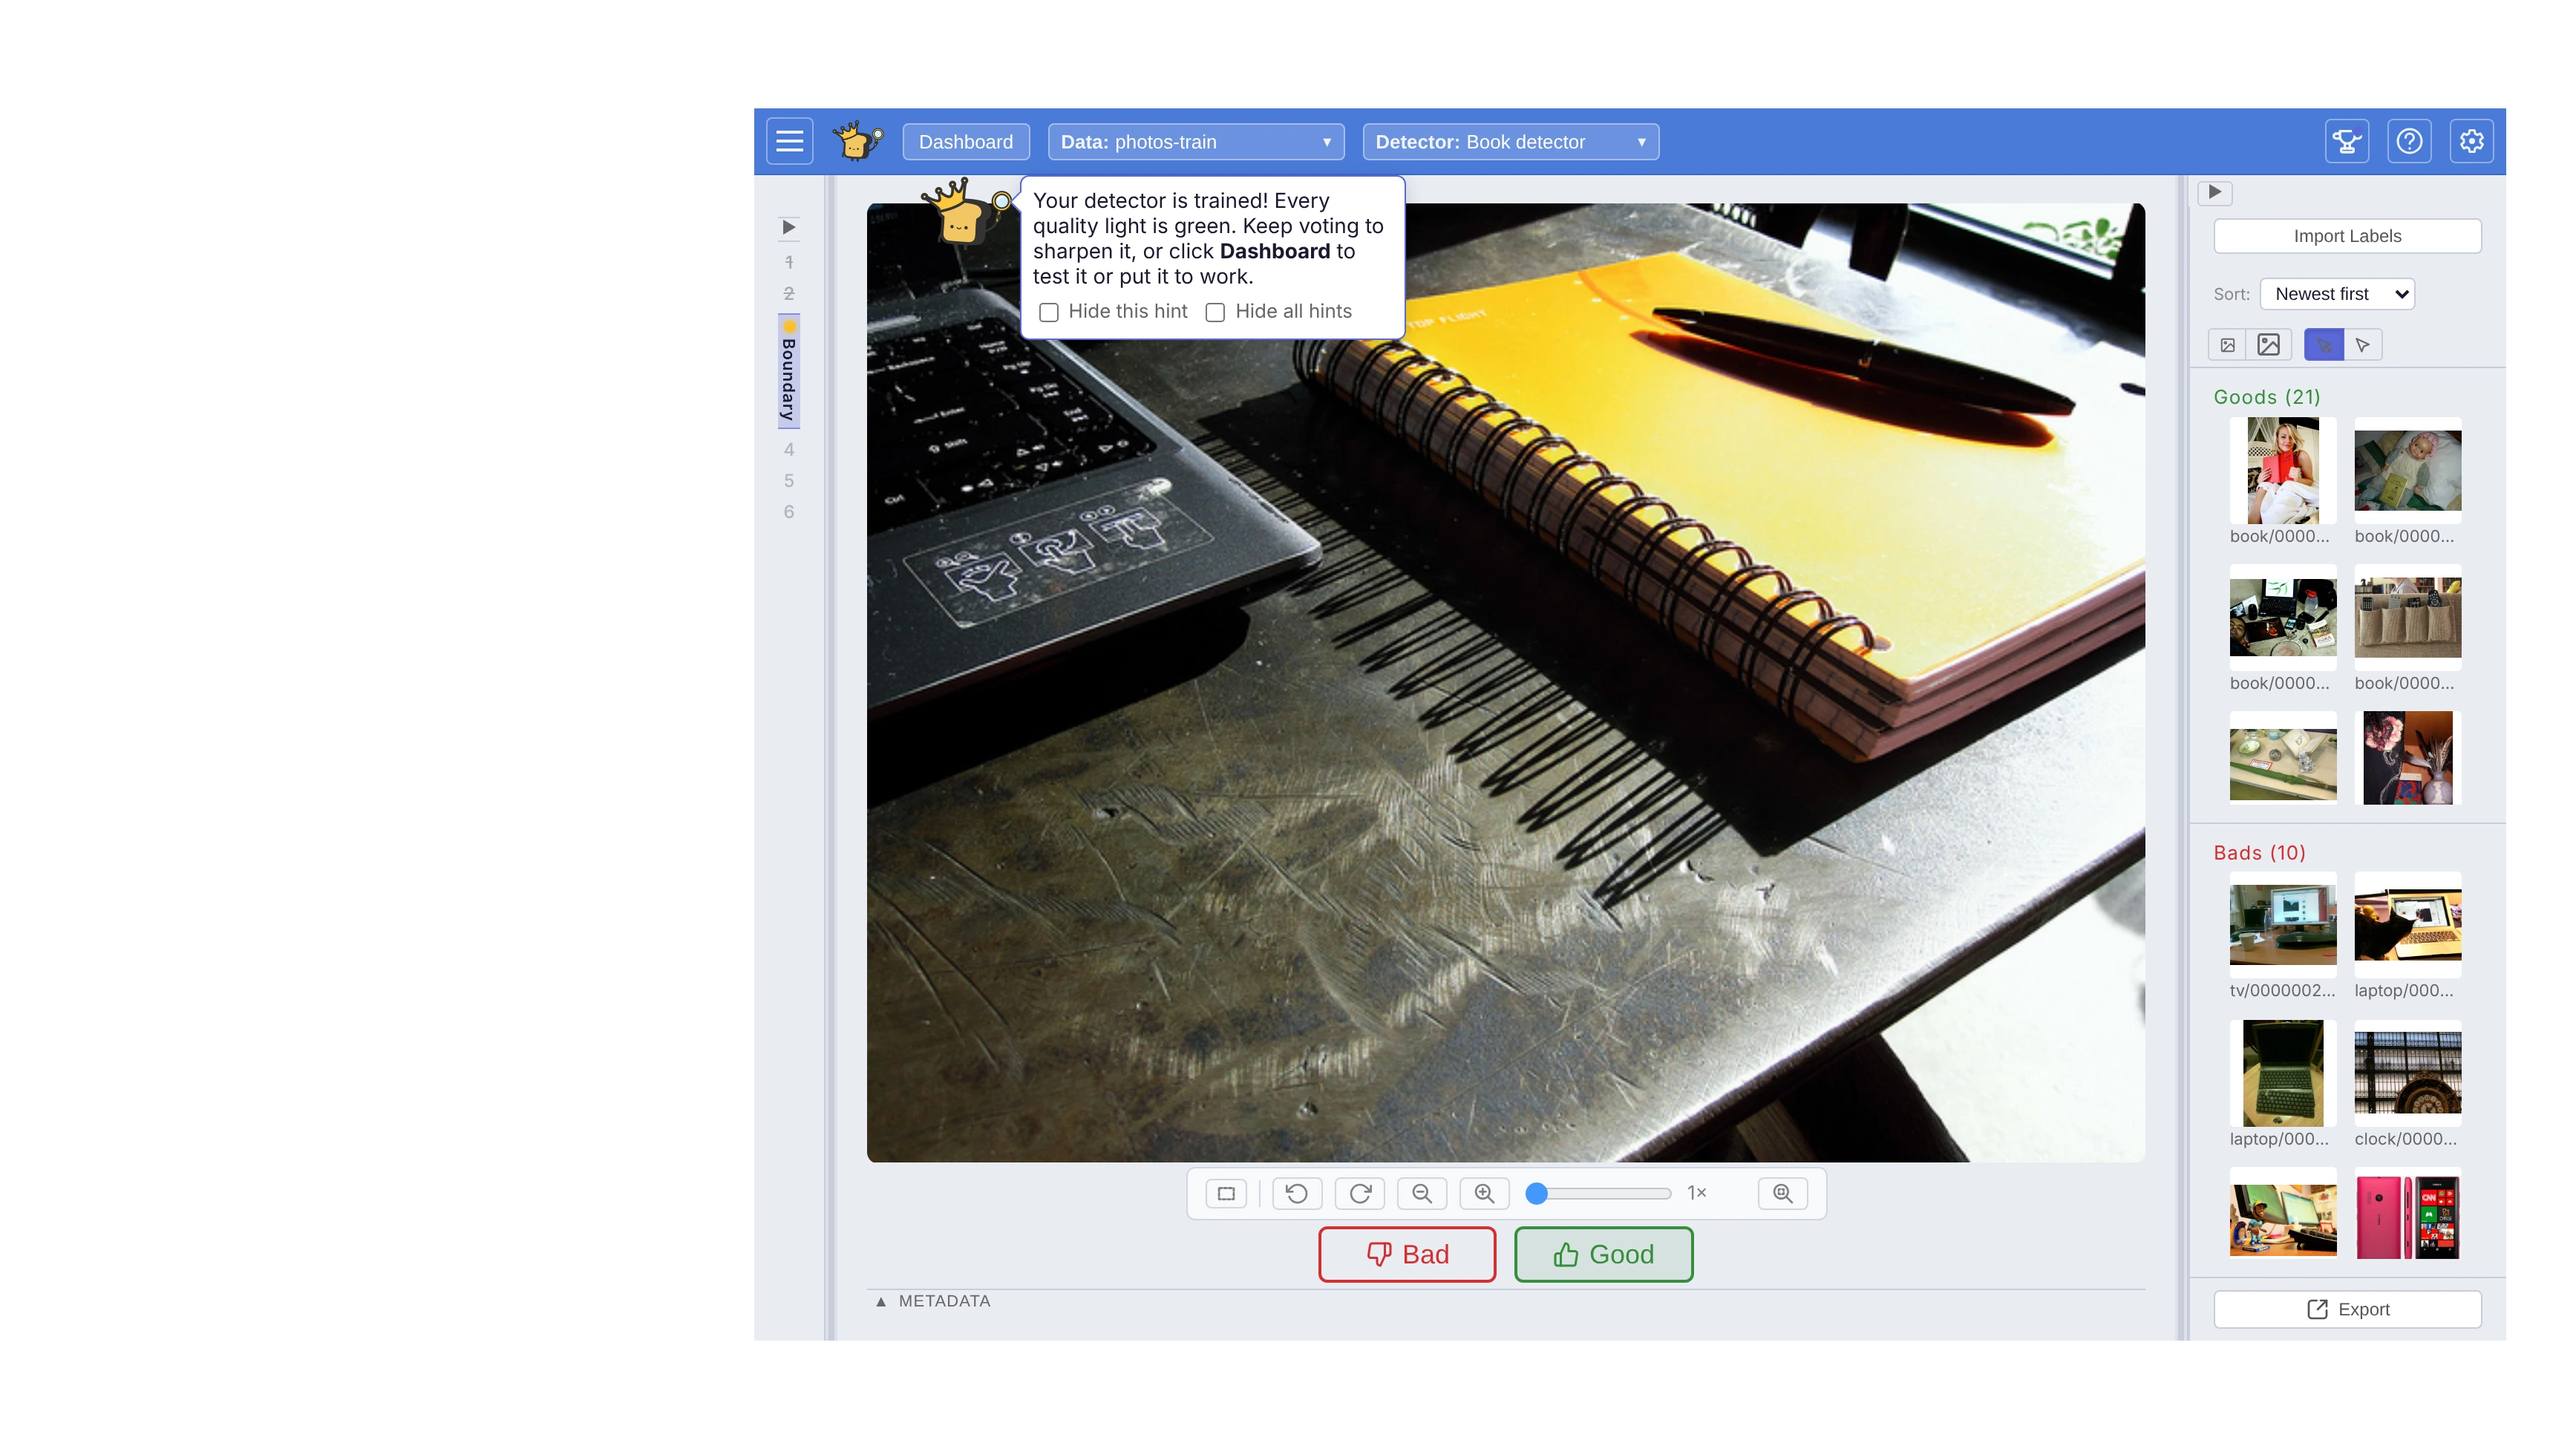
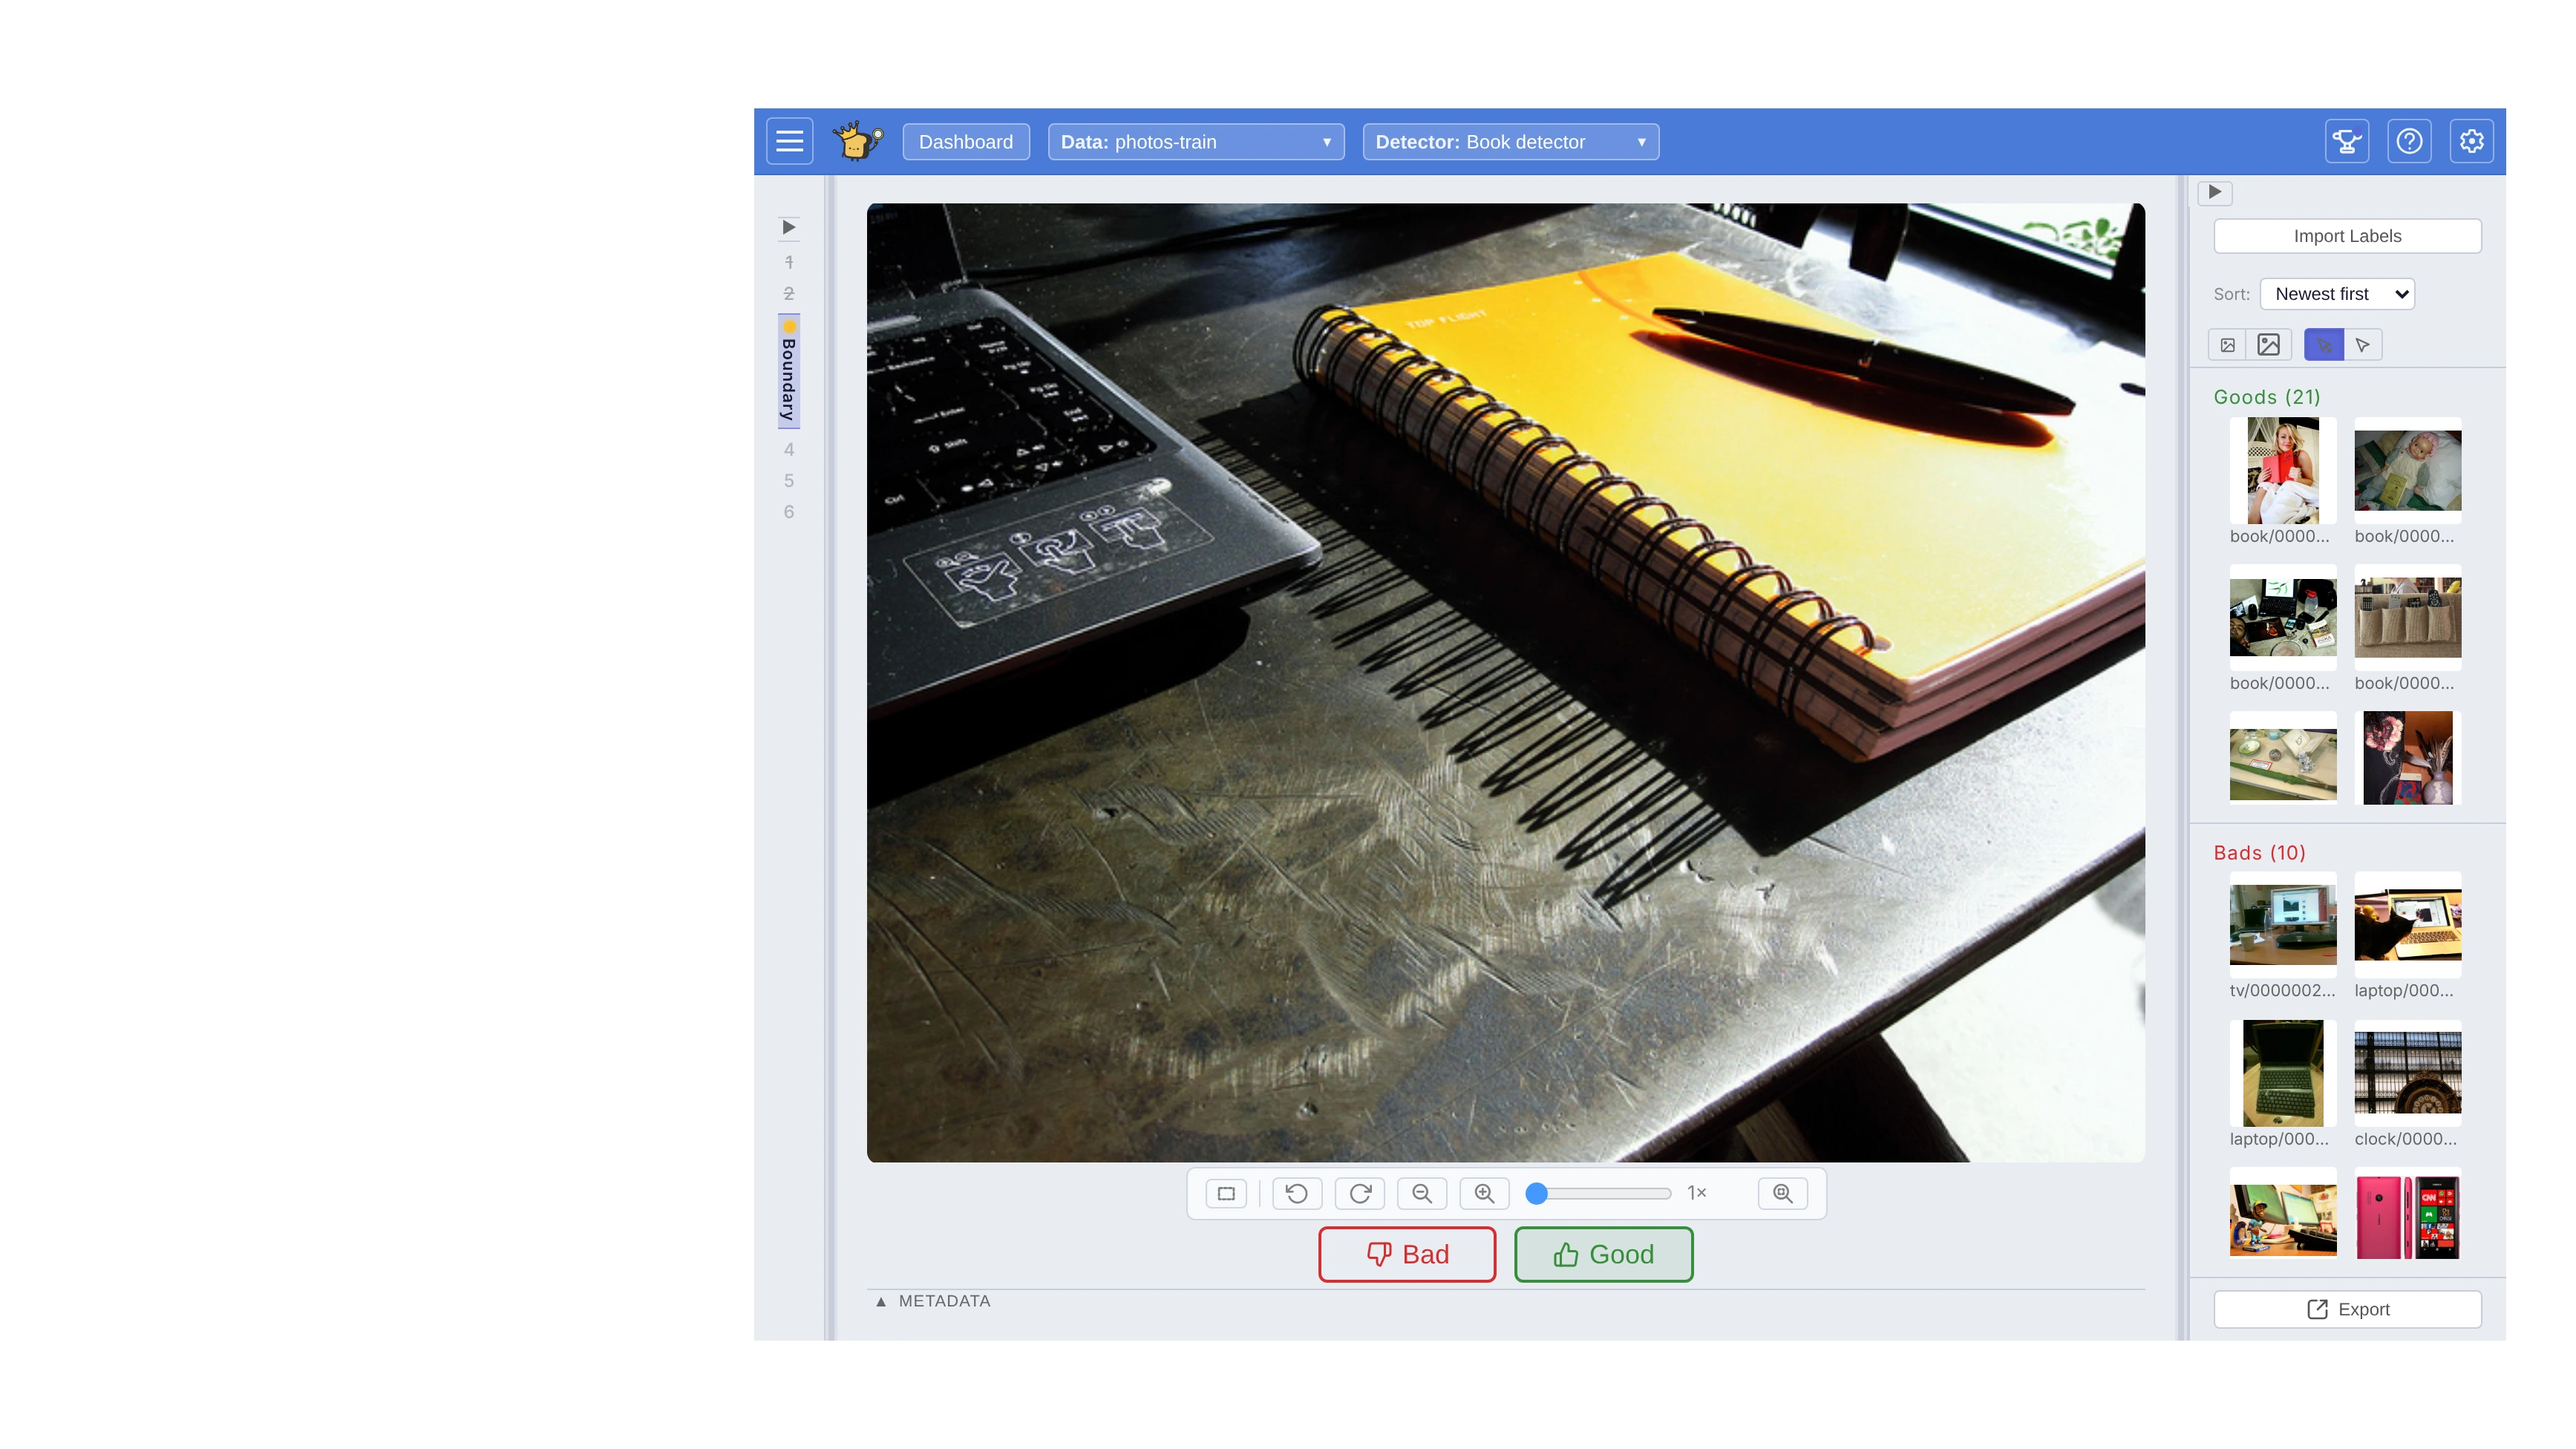
slides: Mission edits from #5132 (title, import options, ring, frames)
- Slide 2 is "Judge a Book by its Cover".
- Book It lists the import options beside the dashboard (Query #VTSearch,
  IDs, Folder) and rings the phrase field on its last frame; callouts.mjs
  gains a ring kind for it, and the reshoot queue carries the frame.
- Rock the Vote loses its staged stop frame, and stop-hint.mjs with it.
- Read All About It drops Auto-Ingest and lists Auto-Output's destinations.

Claude-Session: https://claude.ai/code/session_0165HJKSieM6ooCBfgAquuj8

Changed region(s): [[0.3424, 0.125, 0.5602, 0.25]]

diff --git a/docs/user/screenshots.manifest.ts b/docs/user/screenshots.manifest.ts
@@ -46,11 +46,12 @@ export type Target =
 export interface Annotation {
   target: Target;
   /**
-   * `box` outlines the target; `highlight` also dims everything else; `step`
-   * outlines it and puts a numbered red disc on its corner — the click-by-click
-   * markers (#4202), read in order 1, 2, 3.
+   * `box` outlines the target; `highlight` also dims everything else; `ring`
+   * circles it with fully rounded ends; `step` outlines it and puts a numbered
+   * red disc on its corner — the click-by-click markers (#4202), read in order
+   * 1, 2, 3.
    */
-  kind: 'box' | 'highlight' | 'step';
+  kind: 'box' | 'highlight' | 'ring' | 'step';
   /** The number on a `step` disc. */
   step?: number;
   /**

diff --git a/slides/fragments/make-detector.md b/slides/fragments/make-detector.md
@@ -7,6 +7,16 @@
 
 <!-- build: figs/ui-make-detector.build1.webp -->
 
+<div class="side">
+
+**Query**<br><span class="indent">#VTSearch</span>
+
+**IDs**
+
+**Folder**
+
+</div>
+
 <!-- build: figs/ui-make-detector.build2.webp -->
 
 <!-- build: figs/ui-make-detector.build3.webp -->
@@ -15,12 +25,13 @@
      and all our detectors in that bottom window, but at the start, we don't
      have any. So we click that + button and -->
 
-<!-- **b** — We can add a bunch of unlabeled images from a folder or service or
-     whatever. Then we need a detector, so hit that + button and -->
+<!-- **b** — We can add a bunch of unlabeled images: whatever a query turns
+     up, like a hashtag, or a list of IDs, or a folder. Then we need a detector,
+     so hit that + button and -->
 
 <!-- **c** — We need to declare what we're searching for. We're making a book
      detector, but we need to give VTSearch some hint to start the search, like
      a phrase or picture. We type 'books', and that's all we need. -->
 
-<!-- **d** — It gets a default name like 'Book Detector' and we can start
-     training. -->
+<!-- **d** — That one word, right there, is the whole hint. It gets a
+     default name like 'Book Detector' and we can start training. -->

diff --git a/slides/README.md b/slides/README.md
@@ -165,7 +165,7 @@ leaves for it (see *A figure owns the whole slide* in [`STYLE.md`](STYLE.md)):
 
 ![bg fit](figs/book-boundary.webp)
 
-## Judging a Book<br>by its Cover
+## Judge a Book<br>by its Cover
 ```
 
 Figure paths are written relative to `slides/`, not to the fragment — `build.py`
@@ -503,13 +503,6 @@ named frames of the production pile's `book/` folder (`SHEET`; its docstring
 says why not the top of the live ranking). It is
 composed into the same box a screenshot occupies, so the Find slide's build
 reveals into the same frame rather than moving it.
-
-And one is staged: `figs/ui-train-loop.webp`, Rock the Vote's last page, is the
-session's last real frame (`.build6`) with Toasty's "your detector is trained"
-hint drawn over it by `figs/src/stop-hint.mjs`, in the app's own markup and
-placement. The real hint waits for every quality light to go green, which takes
-far more votes than this session casts. The harness redraws it on every reshoot;
-`node figs/src/stop-hint.mjs` redraws it on the committed frame alone.
 
 The intro groups are **one session**, shot in the order a user works, from an
 app with nothing in it: import `photos-train` through the Add Dataset dialog, create

diff --git a/slides/fragments/find-results.md b/slides/fragments/find-results.md
@@ -11,9 +11,7 @@
 
 <div class="side">
 
-**Auto-Ingest:**<br><span class="indent">#VTSearch</span>
-
-**Auto-Output:**<br><span class="indent">Email, Dropbox, etc.</span>
+**Auto-Output:**<br><span class="indent">Email</span><br><span class="indent">Dropbox</span><br><span class="indent">VT Tags</span><br><span class="indent">etc.</span>
 
 </div>
 
@@ -25,7 +23,6 @@
 <!-- **b** — here's what comes back: shelves, stacks, people reading. Ten
      thousand photos, no labels, about thirty votes. -->
 
-<!-- **c** — And you don't even have to open the tool. New pictures can flow in
-     on their own, say from a team chat, and a detector set to AutoFind sends
-     what it finds wherever you already look: email, a Dropbox folder,
-     whatever. -->
+<!-- **c** — And you don't even have to open the tool. A detector set to
+     AutoFind sends what it finds wherever you already look: email, a Dropbox
+     folder, VT tags, whatever. -->

diff --git a/slides/fragments/train-loop.md b/slides/fragments/train-loop.md
@@ -15,8 +15,6 @@
 
 <!-- build: figs/ui-train-loop.build5.webp -->
 
-<!-- build: figs/ui-train-loop.build6.webp -->
-
 <!-- **a** — This is training. It shows a picture, we hit Good or Bad, and the
      votes pile up on the right. The strip on the left is Autopilot picking
      what's next. Suitcase of books? Good. -->
@@ -36,7 +34,3 @@
 <!-- **f** — Skip ahead thirty-ish votes. Now it's asking about a desk with a
      laptop, cables, and ONE book. The easy ones are done; this is what it can't
      call yet. -->
-
-<!-- **g** — And VTSearch tells you when to stop. Once it's seen enough, it
-     says the detector's trained, so you don't have to decide that yourself.
-     -->

diff --git a/docs/reshoot-queue/5132-make-detector-ring.md b/docs/reshoot-queue/5132-make-detector-ring.md
@@ -1,0 +1,3 @@
+# #5132: a red ring round the New Detector phrase on the deck's make-detector frame
+
+- `slides:make-detector` — the last frame now rings the Example field holding "book" (`callouts.mjs`'s new `ring` kind). The committed figure had the ring drawn onto it at the shooter's geometry; a reshoot puts it there from the harness.

diff --git a/slides/fragments/problem.md b/slides/fragments/problem.md
@@ -2,7 +2,7 @@
 
 ![bg fit](figs/book-boundary.webp)
 
-## Judging a Book<br>by its Cover
+## Judge a Book<br>by its Cover
 
 <!-- build: figs/book-boundary.build1.webp -->
 
